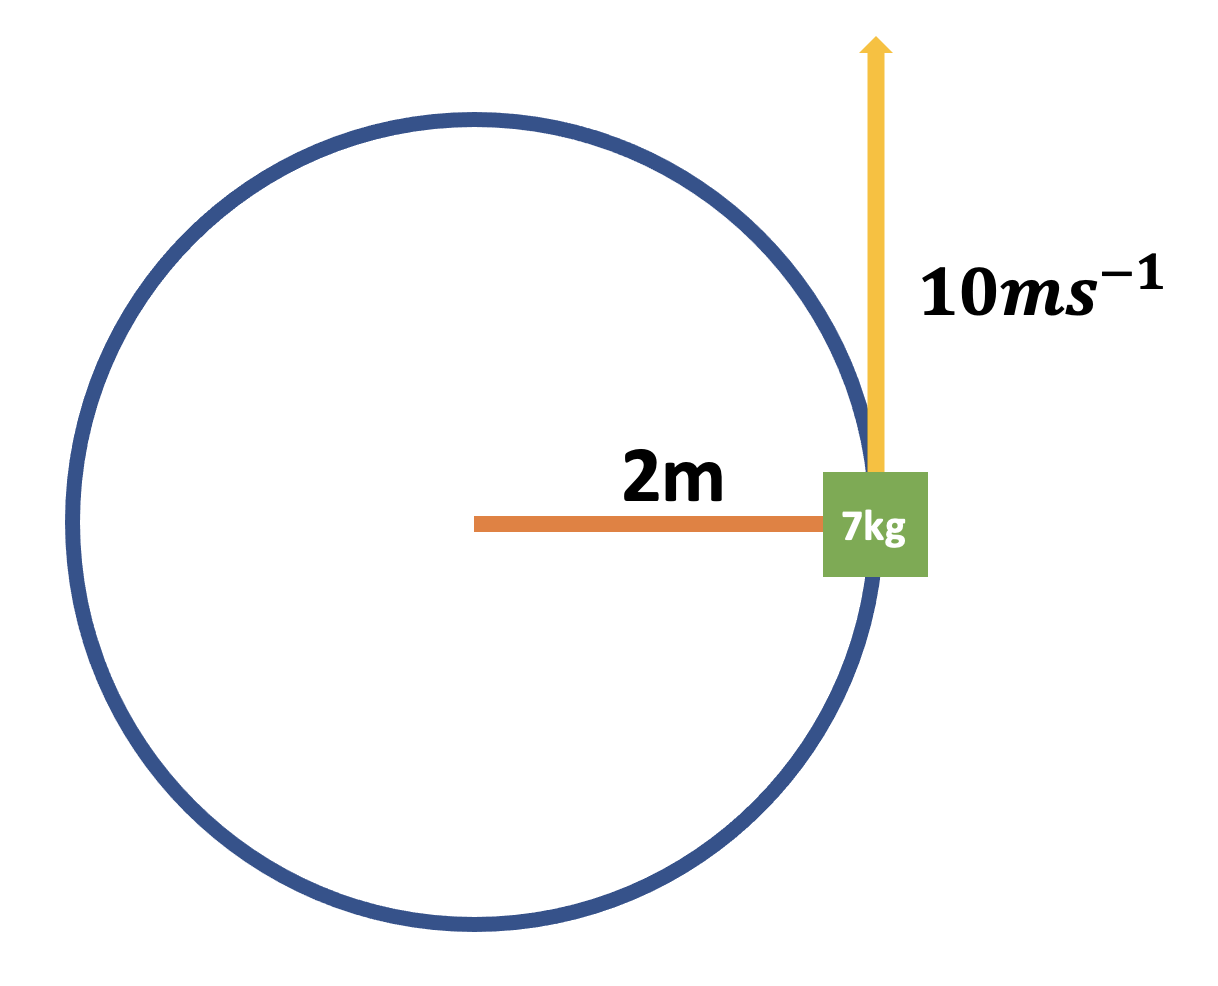
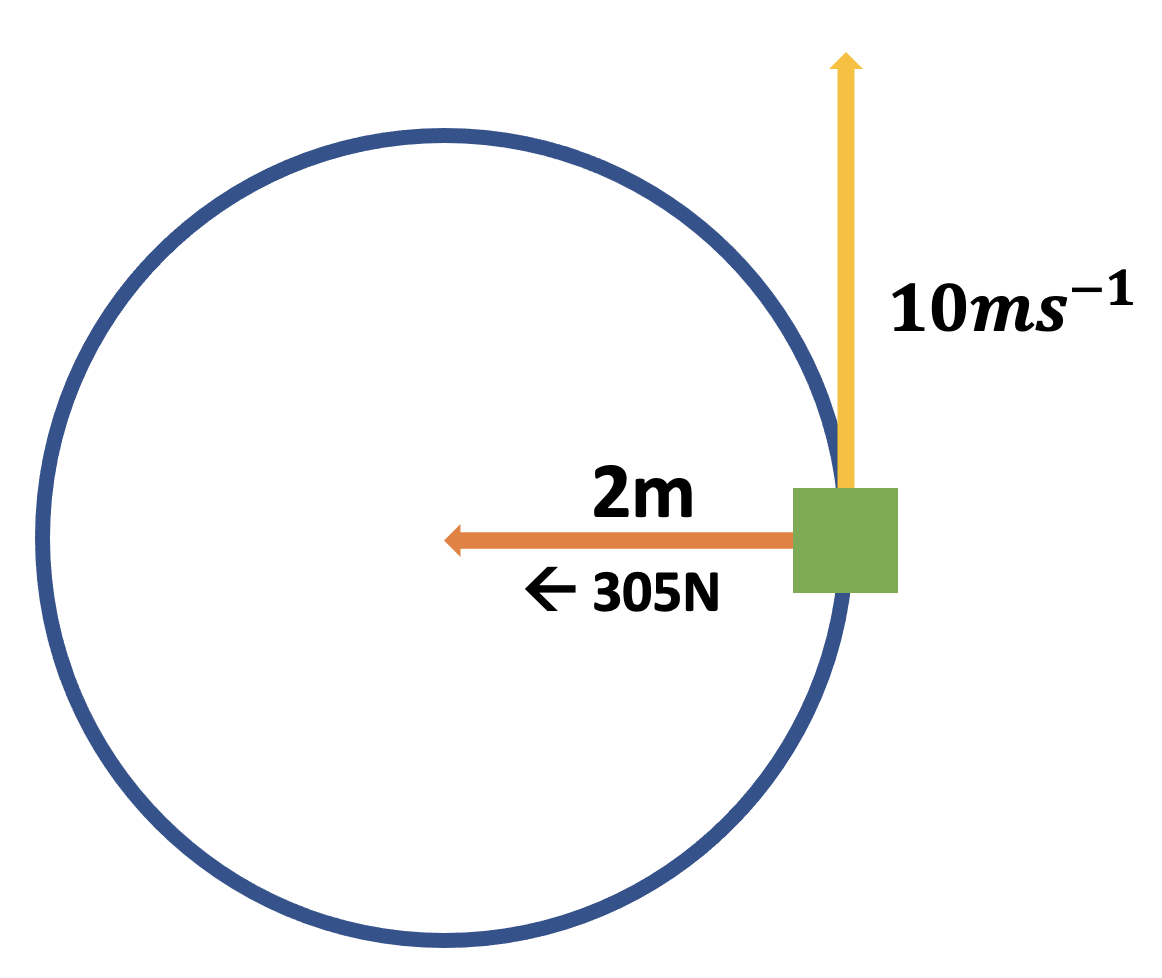
Updates question to be different from Q6

Changed region(s): [[0.031, 0.0307, 0.9914, 0.9816], [0.1859, 0.092, 0.6816, 0.3374]]

diff --git a/content/12phy/as91171/9-circular-motion.md b/content/12phy/as91171/9-circular-motion.md
@@ -216,8 +216,8 @@ NB: From 2:30 to 5:25.
 
 ![](../assets/hammer-throw.png)
 
-- During a hammer throw, a $7kg$ steel ball is swung horizontally with a speed of $10ms^{-1}$ in a circle of radius $2m$.
-- __Calculate the force required to keep the ball moving in a circle.__
+- During a hammer throw, a steel ball is swung horizontally with a speed of $10ms^{-1}$ in a circle of radius $2m$. $350N$ of tension force is required.
+- __Calculate the mass of the steel ball.__
     + __Knowns, Unknowns, Formula, Substitute, Solve__
 
 ---
@@ -225,10 +225,11 @@ NB: From 2:30 to 5:25.
 #### Whakatika
 
 \begin{aligned}
-    & m = 7kg, v = 10ms^{-1}, r = 2m && \text{(K)}  \\
-    & F_{c} = ? && \text{(U)} \\
+    & F_{c} = 350N, v = 10ms^{-1}, r = 2m && \text{(K)}  \\
+    & m = ? && \text{(U)} \\
     & F_{c} = \frac{mv^{2}}{r} && \text{(F)} \\
-    & F = \frac{7 \times 10^{2}}{2}N \text{ inwards} && \text{(S\&S)} 
+    & 350 = \frac{m \times 10^{2}}{2} && \text{(S\&S)} \\
+    & \frac{350 \times 2}{10^{2}} = m = 7kg
 \end{aligned}
 
 ---
